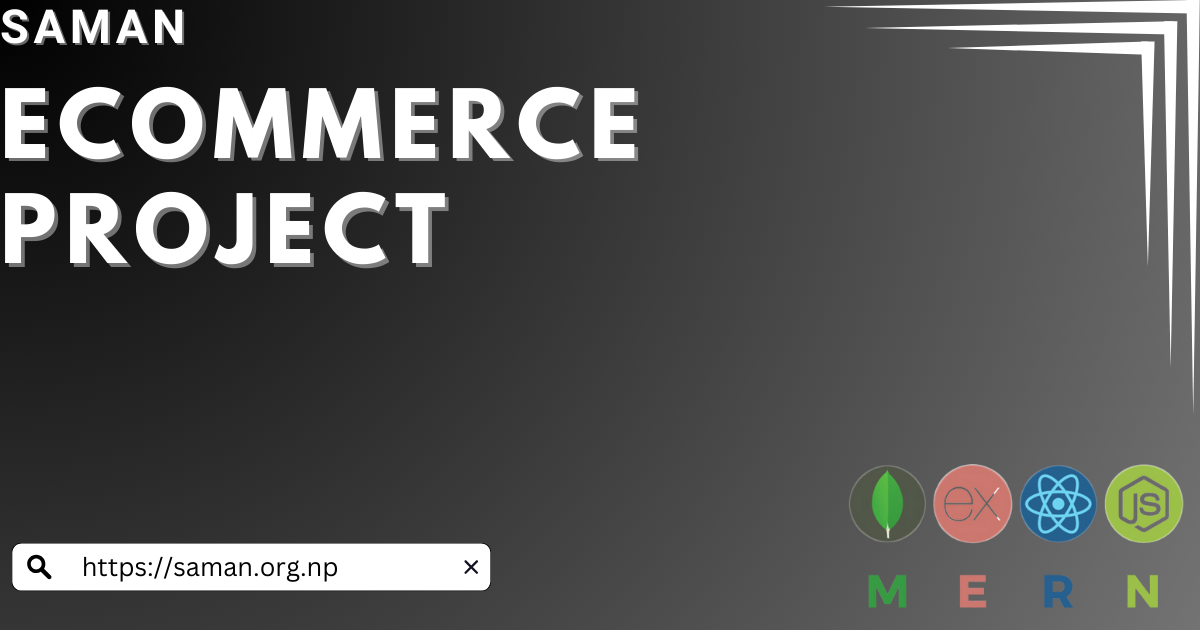
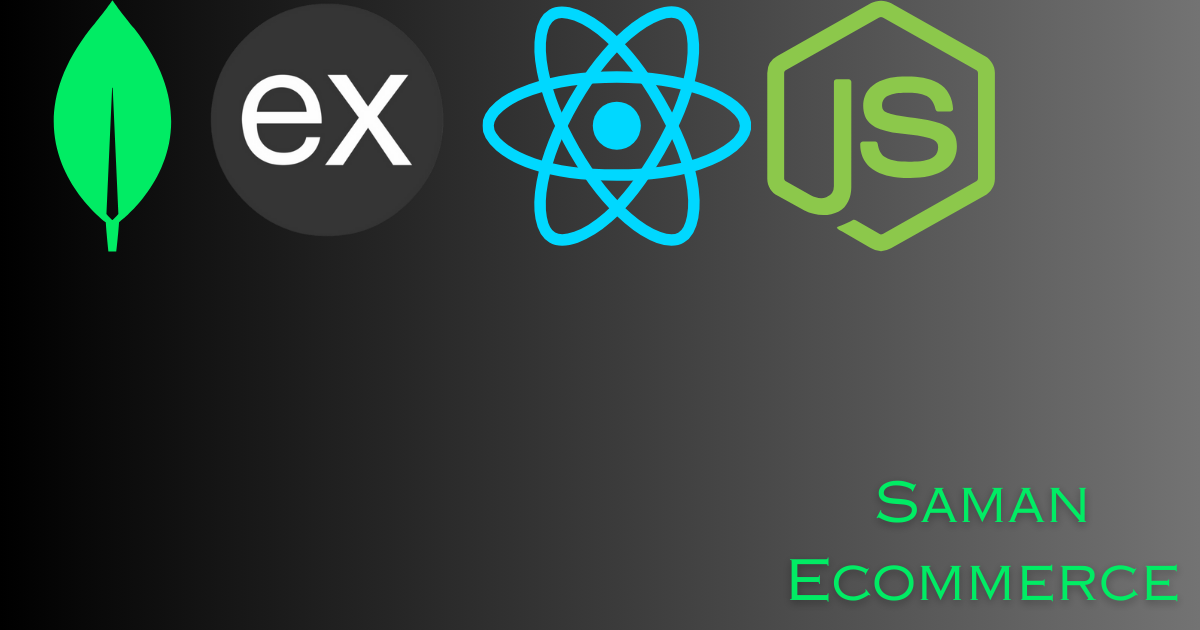
update: deletion of unnecessary cluttered information and other tweaks

Changed region(s): [[0.0, 0.0, 1.0, 0.6032], [0.0, 0.4524, 0.4317, 1.0], [0.6475, 0.7238, 0.9867, 0.9651]]

diff --git a/_posts/2024-10-10-saman.md b/_posts/2024-10-10-saman.md
@@ -17,17 +17,8 @@ Welcome to the **Saman E-commerce Web Application**! This is a full-stack e-comm
 
 This project showcases the power of the **MERN** stack, combining **MongoDB** for data storage, **Express** and **Node.js** for the backend, and **React** for a dynamic frontend.
 
-## Features
 
-- **User Authentication**: Users can sign up, log in, and manage their accounts.
-- **Product Listings**: Browse and filter products with an intuitive UI.
-- **Shopping Cart**: Add products to your cart, adjust quantities, and proceed to checkout.
-- **Secure Payment**: Integration with Stripe or PayPal for secure transactions.
-- **Order Management**: Users can view past orders and track the status of their current purchases.
-- **Admin Panel**: Admin users can manage products, users, and orders from a centralized dashboard.
-- **Responsive Design**: Fully responsive and optimized for mobile and desktop devices.
-
-## Technologies Used
+## Technologies Usage
 
 - **Frontend**: React, Bootstrap
 - **Backend**: Node.js
@@ -40,51 +31,7 @@ This project showcases the power of the **MERN** stack, combining **MongoDB** fo
   - Backend: **Render**
   - Database: **MongoDB Atlas**
 
-## MERN Stack
 
-This project utilizes the **MERN stack**, which includes:
-
-- **MongoDB**: NoSQL database to store user data, products, orders, and more. MongoDB Atlas is used for database hosting and management.
-- **Express.js**: Web framework for Node.js to handle routing and API requests.
-- **React**: A powerful front-end library for building interactive UIs.
-- **Node.js**: Server-side runtime for handling backend operations.
-
-## Deployment Information
-
-- **Frontend** is hosted on **Vercel** for fast, scalable, and secure deployment.
-- **Backend** is deployed on **Render**, providing a serverless architecture for handling API requests and processing orders.
-- **MongoDB Atlas** is used for hosting the MongoDB database in the cloud, ensuring scalability and reliability.
-
-### MongoDB Atlas Connection
-
-This application uses **MongoDB Atlas** for database hosting. You'll need to set up a MongoDB cluster and provide the connection string in the `.env` file to connect your backend to the database.
-
-## Application Workflow
-
-1. **Browse Products**: Users can view the product catalog, use filters, and search for specific items.
-2. **Add to Cart**: Items are added to the shopping cart, and users can manage quantities before checkout.
-3. **Checkout & Payment**: Users proceed to checkout, input shipping information, and complete the payment via Stripe/PayPal.
-4. **Order Confirmation**: After payment, an order confirmation is shown.
-5. **Admin Panel**: Admins can manage inventory, orders, and customer data through a dedicated dashboard.
-
-## Author
-
-This project was created by **[safal lama]**. Feel free to reach out for any contributions or inquiries.
-
-## Contributing
-
-Contributions are welcome! If you'd like to improve the project, feel free to fork the repository and submit a pull request. Here's how you can contribute:
-
-1. Fork the repository.
-2. Create a new branch.
-3. Make your changes.
-4. Submit a pull request with a description of your changes.
-
-## Acknowledgments
-
-- [MERN Stack Documentation](https://www.mongodb.com/mern-stack)
-- [React Documentation](https://reactjs.org/docs/getting-started.html)
-- [MongoDB Atlas](https://www.mongodb.com/cloud/atlas)
 
 
 <iframe width="400" height="300" src="https://www.youtube.com/embed/3f4DREnGzrc" frameborder="0" allowfullscreen></iframe>

diff --git a/_posts/2024-11-13-Image-Processor.md b/_posts/2024-11-13-Image-Processor.md
@@ -7,100 +7,12 @@ description: Image Processing web-application
 image: /assets/image/IP.png
 ---
 
-# Serenity Profiles
 
-Serenity Profiles is a Flask-based web application that allows users to create and manage personalized profiles with customizable avatars, backgrounds, and titles.
+## Image Processor  
+Image processor is a Flask-based web application module that allows users to create and manage personalized profiles with customizable avatars, backgrounds, and titles.  
 
-## Features
+_THIS WAS MY FIRST FLASK PROJECT!_  
 
-- **User Registration and Login**
-- **Profile Management**
-- **Dynamic Profile Image Generation**
-- **View Profiles of all Registered Users**
+**GitHub Link:** [Image Processor](https://github.com/RyuZinOh/image-processor)  
 
-## Getting Started Locally
-
-Follow these steps to run the project on your local machine:
-
-### 1. Clone the repository
-
-```bash
-git clone https://github.com/RyuZinOh/image-processor
-cd image-processor
-```
-
-### 2. Create a virtual environment (optional, but recommended)
-
-```bash
-python -m venv venv
-source venv/bin/activate   # On Windows, use venv\Scripts\activate
-```
-
-### 3. Install the required packages
-
-```bash
-pip install -r requirements.txt
-```
-
-### 4. Set up environment variables
-
-Create a `.env` file in the root directory of the project and add the following variables:
-
-| Variable        | Description                                      |
-|-----------------|--------------------------------------------------|
-| `MONGODB_URL`   | Your MongoDB connection string                   |
-| `SECRET_KEY`    | A randomly generated secret key for the app      |
-
-Example `.env` file:
-
-```plaintext
-MONGODB_URL="your_mongodb_connection_string"
-SECRET_KEY="your_secret_key"
-```
-
-### 5. Run the application
-
-```bash
-python app.py
-```
-
-The application will be accessible at `http://127.0.0.1:5000`.
-
----
-
-## Docker Usage
-
-To run the application in a Docker container, follow the steps below:
-
-### 1. Pull the Docker image
-
-```bash
-docker pull safallama/imageprocesor:v1.0
-```
-
-### 2. Run the container
-
-```bash
-docker run -p 5000:5000 -e MONGODB_URL="mongodb://host.docker.internal:27017/<your-db-name>" -e SECRET_KEY="your_secret_key" safallama/imageprocesor:v1.0
-```
-
-**Note**: 
-- Replace `your_secret_key` with a randomly generated string. 
-- The `host.docker.internal` URL ensures Docker can access your local MongoDB instance.
-
----
-
-## Contributing
-
-Feel free to make modifications and submit a pull request. I’ll review it and merge if everything looks good!
-
----
-
-## Warning
-
-The Docker image prioritizes functionality over UI/UX since it was originally a prototype. However, following the setup instructions ensures the application runs as expected.
-
----
-### Demo Video:
-<iframe width="400" height="300" src="https://www.youtube.com/embed/dyYMlzPuIdw" frameborder="0" allowfullscreen></iframe>
 

diff --git a/_posts/2024-10-10-Noble-Auction.md b/_posts/2024-10-10-Noble-Auction.md
@@ -15,15 +15,9 @@ This project of mine is a Windows application that works on a centralized networ
 
 **Use Case Diagram:** [View Image](https://github.com/RyuZinOh/static-assets/blob/main/nobleAuction/nobleAuction-UC.png)
 
-### GitHub Badges
-
-[![GitHub issues](https://img.shields.io/github/issues/RyuZinOh/nobleAuction.svg)](https://github.com/RyuZinOh/nobleAuction/issues)
-[![GitHub forks](https://img.shields.io/github/forks/RyuZinOh/nobleAuction.svg)](https://github.com/RyuZinOh/nobleAuction/network)
-[![GitHub stars](https://img.shields.io/github/stars/RyuZinOh/nobleAuction.svg)](https://github.com/RyuZinOh/nobleAuction/stargazers)
 
 ### GitHub Repository
-
-[GitHub Repository](https://github.com/RyuZinOh/nobleAuction)
+[Noble Auction](https://github.com/RyuZinOh/nobleAuction)
 
 <iframe width="400" height="300" src="https://www.youtube.com/embed/YoYwOuzdHeQ" frameborder="0" allowfullscreen></iframe>
 
